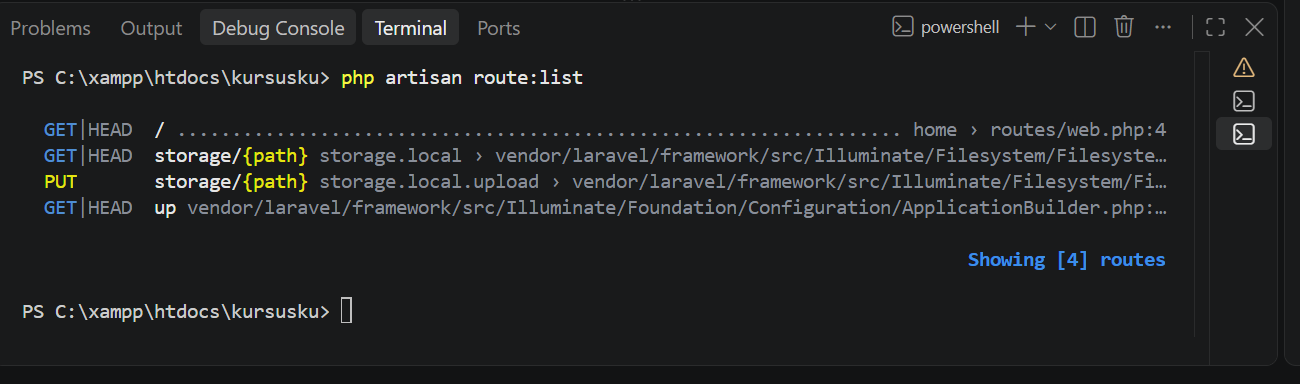
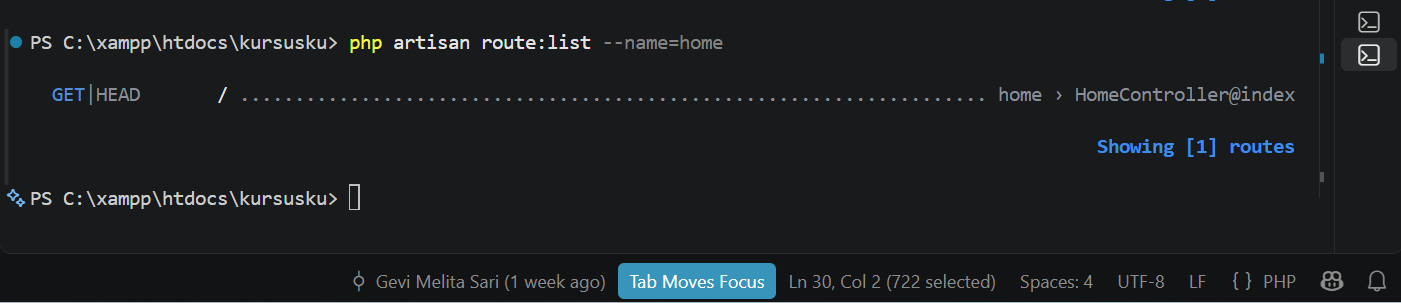
docs: finalize week 7 evidence

diff --git a/vite.config.js b/vite.config.js
@@ -2,10 +2,8 @@ import { defineConfig } from 'vite';
 import laravel from 'laravel-vite-plugin';
 
 export default defineConfig({
-    plugins: [
-        laravel({
-            input: ['resources/css/app.css', 'resources/js/app.js'],
-            refresh: true,
-        }),
-    ],
+    build: {
+        outDir: 'public/build',
+        manifest: true
+    }
 });

diff --git a/resources/views/form.blade.php b/resources/views/form.blade.php
@@ -1,0 +1,72 @@
+@extends('layouts.app')
+
+@section('title', 'Form Pendaftaran - KursusKu')
+
+@section('content')
+    <div class="row justify-content-center">
+        <div class="col-md-8 col-lg-6">
+            <div class="card shadow-sm">
+                <div class="card-body p-4">
+                    <h1 class="h3 mb-4">Form Pendaftaran Kursus</h1>
+
+                    @if (session('success'))
+                        <div class="alert alert-success">
+                            {{ session('success') }}
+                        </div>
+                    @endif
+
+                    <form action="{{ route('form.submit') }}" method="POST">
+                        @csrf
+
+                        <div class="mb-3">
+                            <label for="nama" class="form-label">Nama Lengkap</label>
+                            <input
+                                type="text"
+                                class="form-control"
+                                id="nama"
+                                name="nama"
+                                placeholder="Masukkan nama lengkap"
+                                required
+                            >
+                        </div>
+
+                        <div class="mb-3">
+                            <label for="email" class="form-label">Email</label>
+                            <input
+                                type="email"
+                                class="form-control"
+                                id="email"
+                                name="email"
+                                placeholder="Masukkan email"
+                                required
+                            >
+                        </div>
+
+                        <div class="mb-3">
+                            <label for="kursus" class="form-label">Pilihan Kursus</label>
+                            <select
+                                class="form-select"
+                                id="kursus"
+                                name="kursus"
+                                required
+                            >
+                                <option value="">Pilih kursus</option>
+                                <option value="web">Web Development</option>
+                                <option value="desain">Desain Grafis</option>
+                                <option value="database">Database</option>
+                            </select>
+                        </div>
+
+                        <button type="submit" class="btn btn-primary">
+                            Daftar Sekarang
+                        </button>
+
+                        <a href="{{ route('home') }}" class="btn btn-outline-secondary">
+                            Kembali
+                        </a>
+                    </form>
+                </div>
+            </div>
+        </div>
+    </div>
+@endsection

diff --git a/routes/web.php b/routes/web.php
@@ -1,11 +1,10 @@
 <?php
 
+use App\Http\Controllers\HomeController;
 use Illuminate\Http\Request;
 use Illuminate\Support\Facades\Route;
 
-Route::get('/', function () {
-    return view('home');
-})->name('home');
+Route::get('/', [HomeController::class, 'index'])->name('home');
 
 Route::get('/pendaftaran', function () {
     $courses = [
@@ -40,3 +39,7 @@ Route::get('/courses/{course}/availability', function (int $course) {
 
     return response()->json($availability[$course]);
 })->name('courses.availability');
+
+Route::get('/minggu-7', function () {
+    return view('week7');
+})->name('week7');
